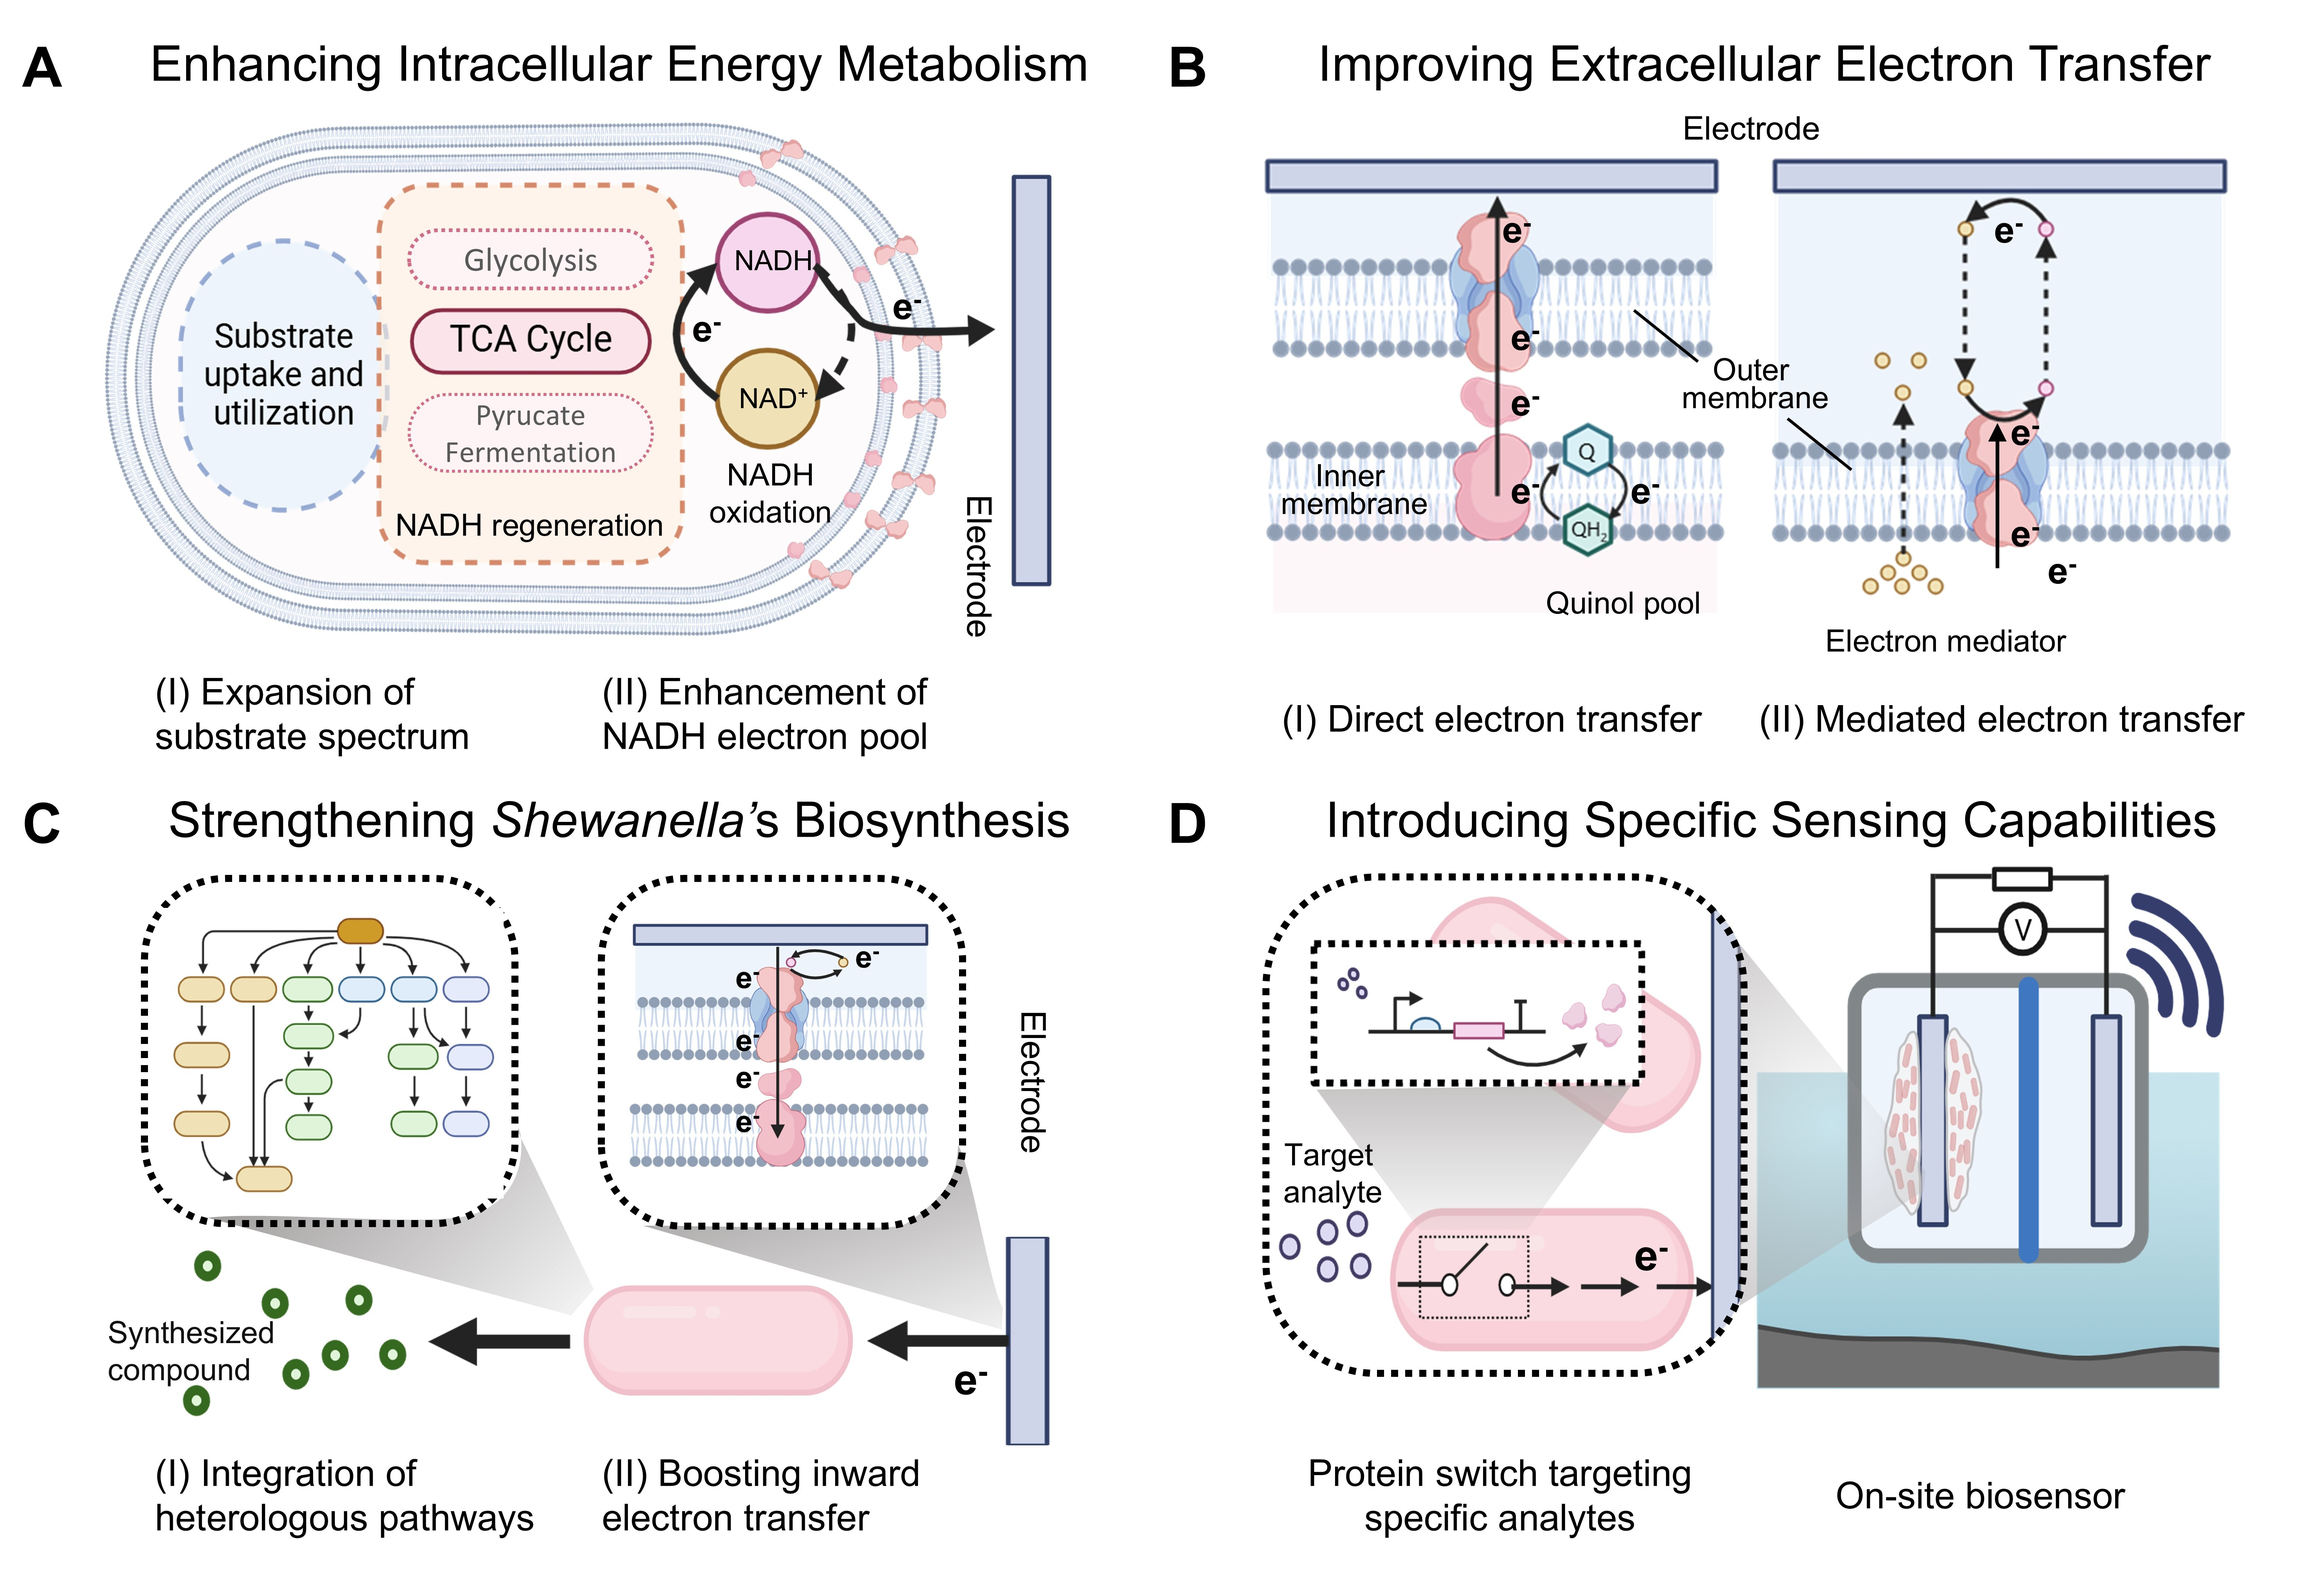
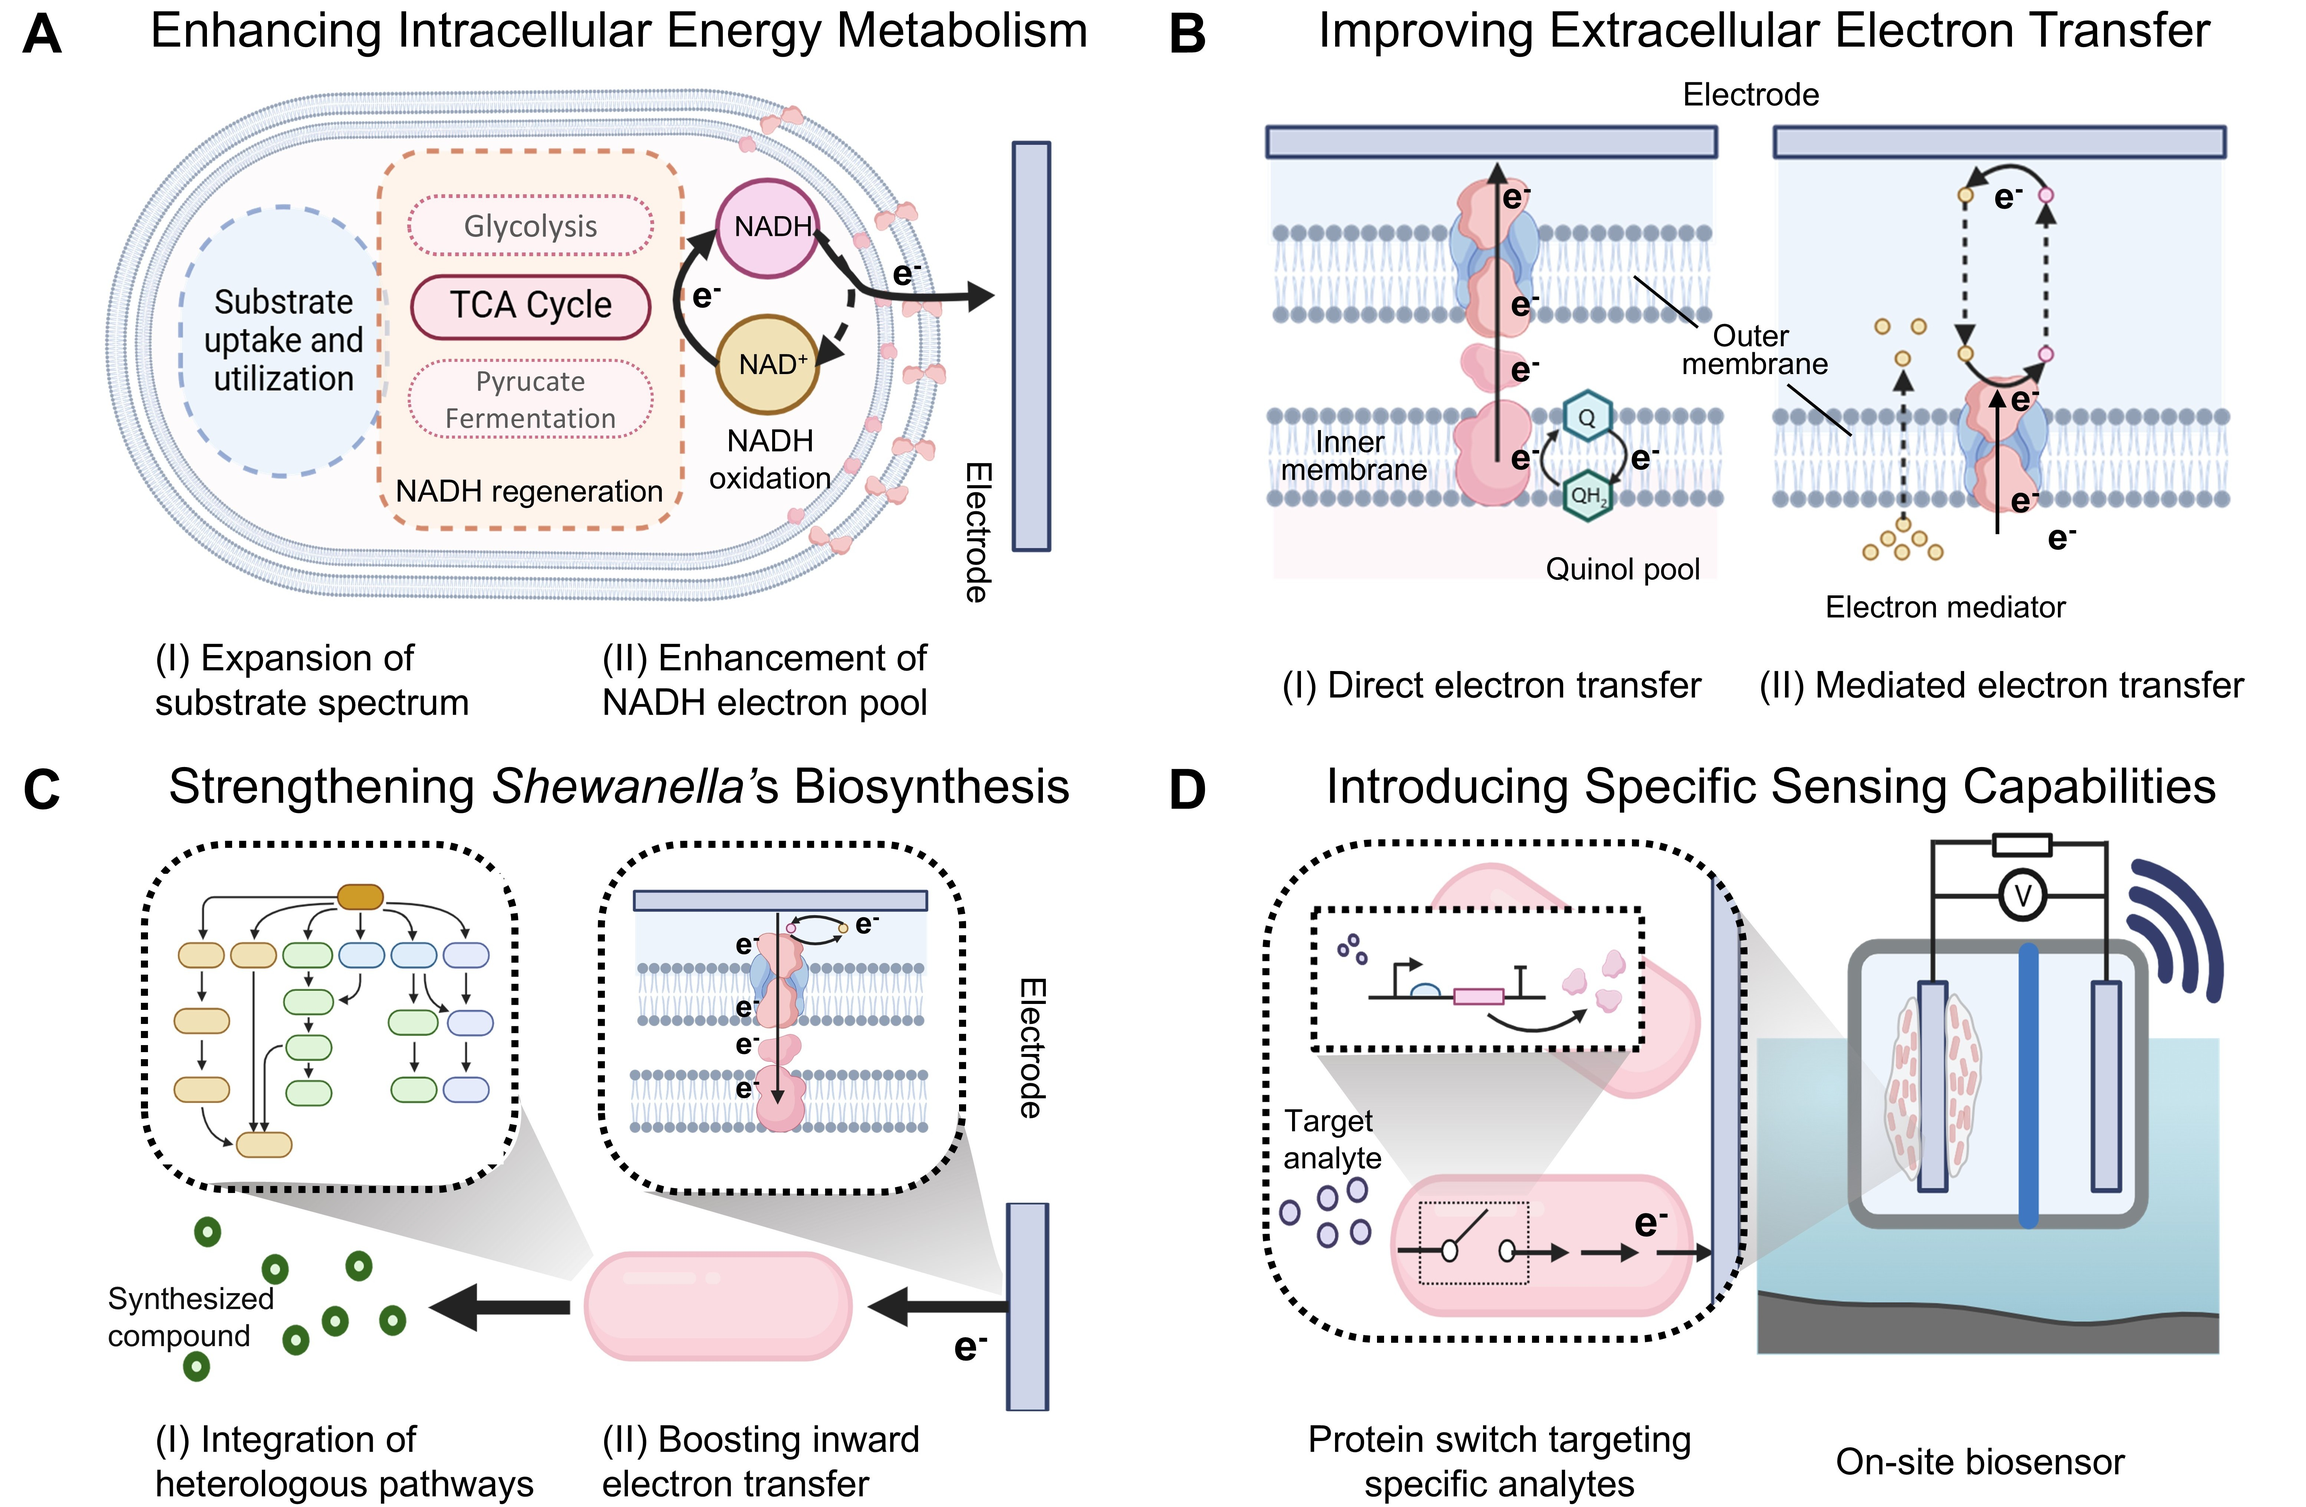
debug3

diff --git a/_pages/about.md b/_pages/about.md
@@ -76,7 +76,8 @@ To date, I have published 16 peer-reviewed papers in journals such as *PNAS, ACS
 </div>
 
 <div class='paper-box'><div class='paper-box-image'><div><div class="badge">ME 2025</div><img src='images/ME2025.jpg' alt="sym" width="100%"></div></div>
-<div class='paper-box-text' markdown="2">
+<div class='paper-box-text' markdown="1">
+
 
 
 - **Liu, Y.-N.**; Liu, Z.; Liu, J.; Hu, Y.; Cao, B., Unlocking the Potential of Shewanella in Metabolic Engineering: Current Status, Challenges, and Opportunities. *Metab. Eng.* **2025**, 89, 1-11.
@@ -84,15 +85,17 @@ To date, I have published 16 peer-reviewed papers in journals such as *PNAS, ACS
   </div>
 
 <div class='paper-box'><div class='paper-box-image'><div><div class="badge">ACS Nano 2024</div><img src='images/Nano2024.jpg' alt="sym" width="100%"></div></div>
-<div class='paper-box-text' markdown="3">
+<div class='paper-box-text' markdown="1">
+
 
 
 - **Liu, Y.-N.**; Liu, X.-W., Nanoscale Spatiotemporal Dynamics of Microbial Adhesion: Unveiling Stepwise Transitions with Plasmonic Imaging. *ACS Nano* **2024**, 18 (24), 16002-16010.
   </div>
   </div>
 
-<div class='paper-box'><div class='paper-box-image'><div><div class="badge">EI 2024</div><img src='images/EI2024.jpeg' alt="sym" width="100%"></div></div>
-<div class='paper-box-text' markdown="4">
+<div class='paper-box'><div class='paper-box-image'><div><div class="badge">EI 2024</div><img src='images/EI2024.jpg' alt="sym" width="100%"></div></div>
+<div class='paper-box-text' markdown="1">
+
 
 
 - **Liu, Y. -N.**# ; Bairoliya, S.# ; Zaiden, N.; Cao, B., Establishment of Plastic-associated Microbial Community from Superworm Gut Microbiome. *Environ. Int.* **2024**, 108349. (#共同第一作者)
@@ -100,7 +103,8 @@ To date, I have published 16 peer-reviewed papers in journals such as *PNAS, ACS
   </div>
 
 <div class='paper-box'><div class='paper-box-image'><div><div class="badge">Nano Lett. 2023</div><img src='images/NL2023.jpeg' alt="sym" width="100%"></div></div>
-<div class='paper-box-text' markdown="5">
+<div class='paper-box-text' markdown="1">
+
 
 
 - **Liu, Y. -N.**#; Lv, Z.-T.#; Lv, W.-L.; Liu, D.-F.; Liu, X.-W., Label-Free Optical Imaging of the Electron Transfer in Single Live Microbial Cells. *Nano Lett.* **2023**, 23 (2), 558-566. (#共同第一作者)
